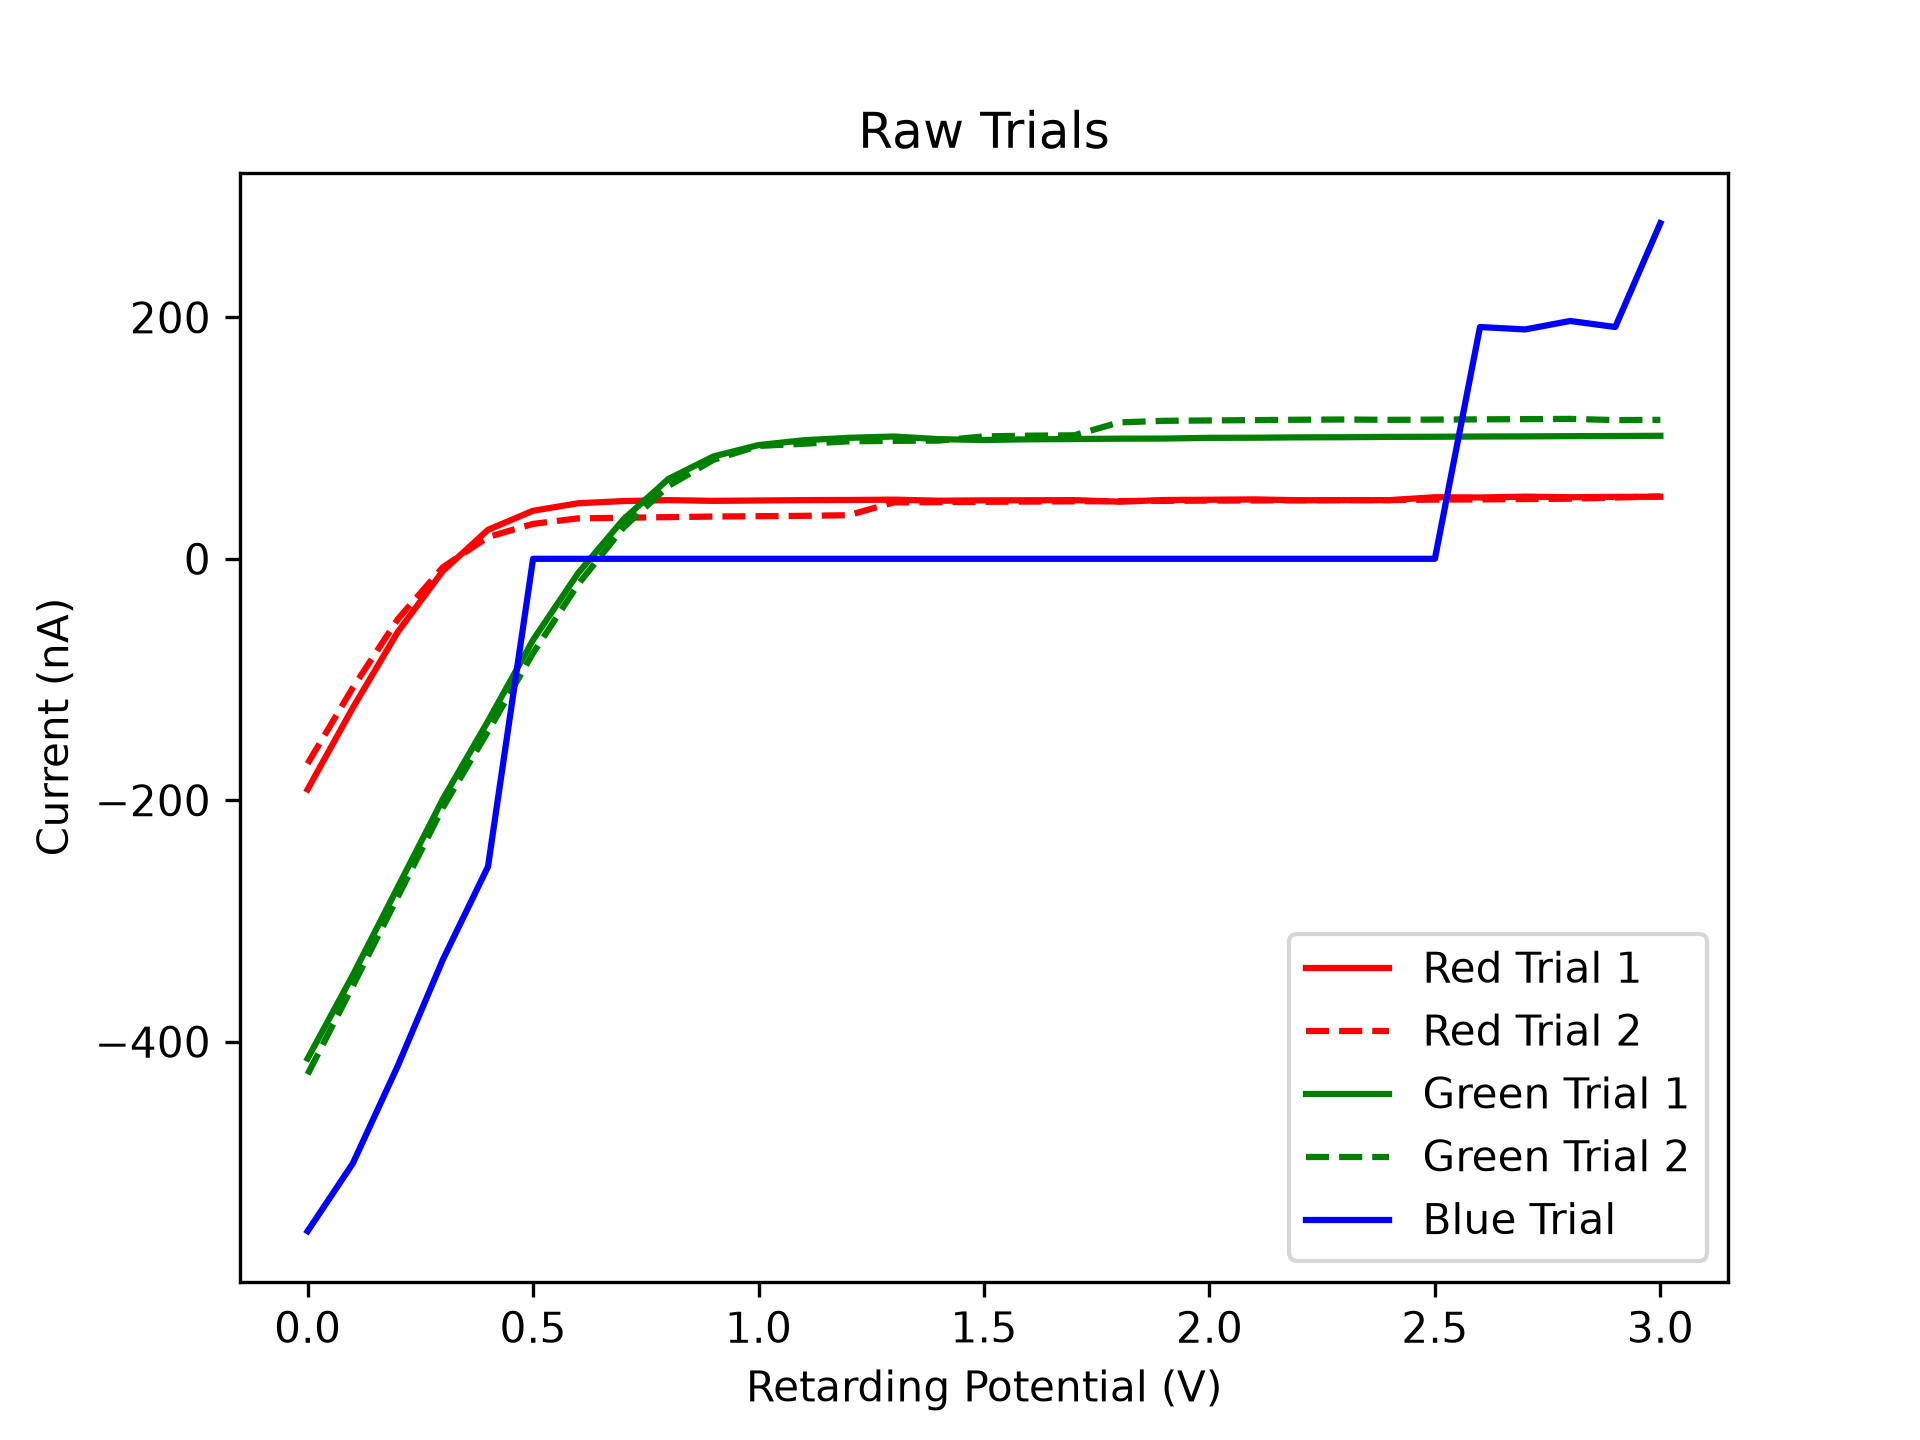
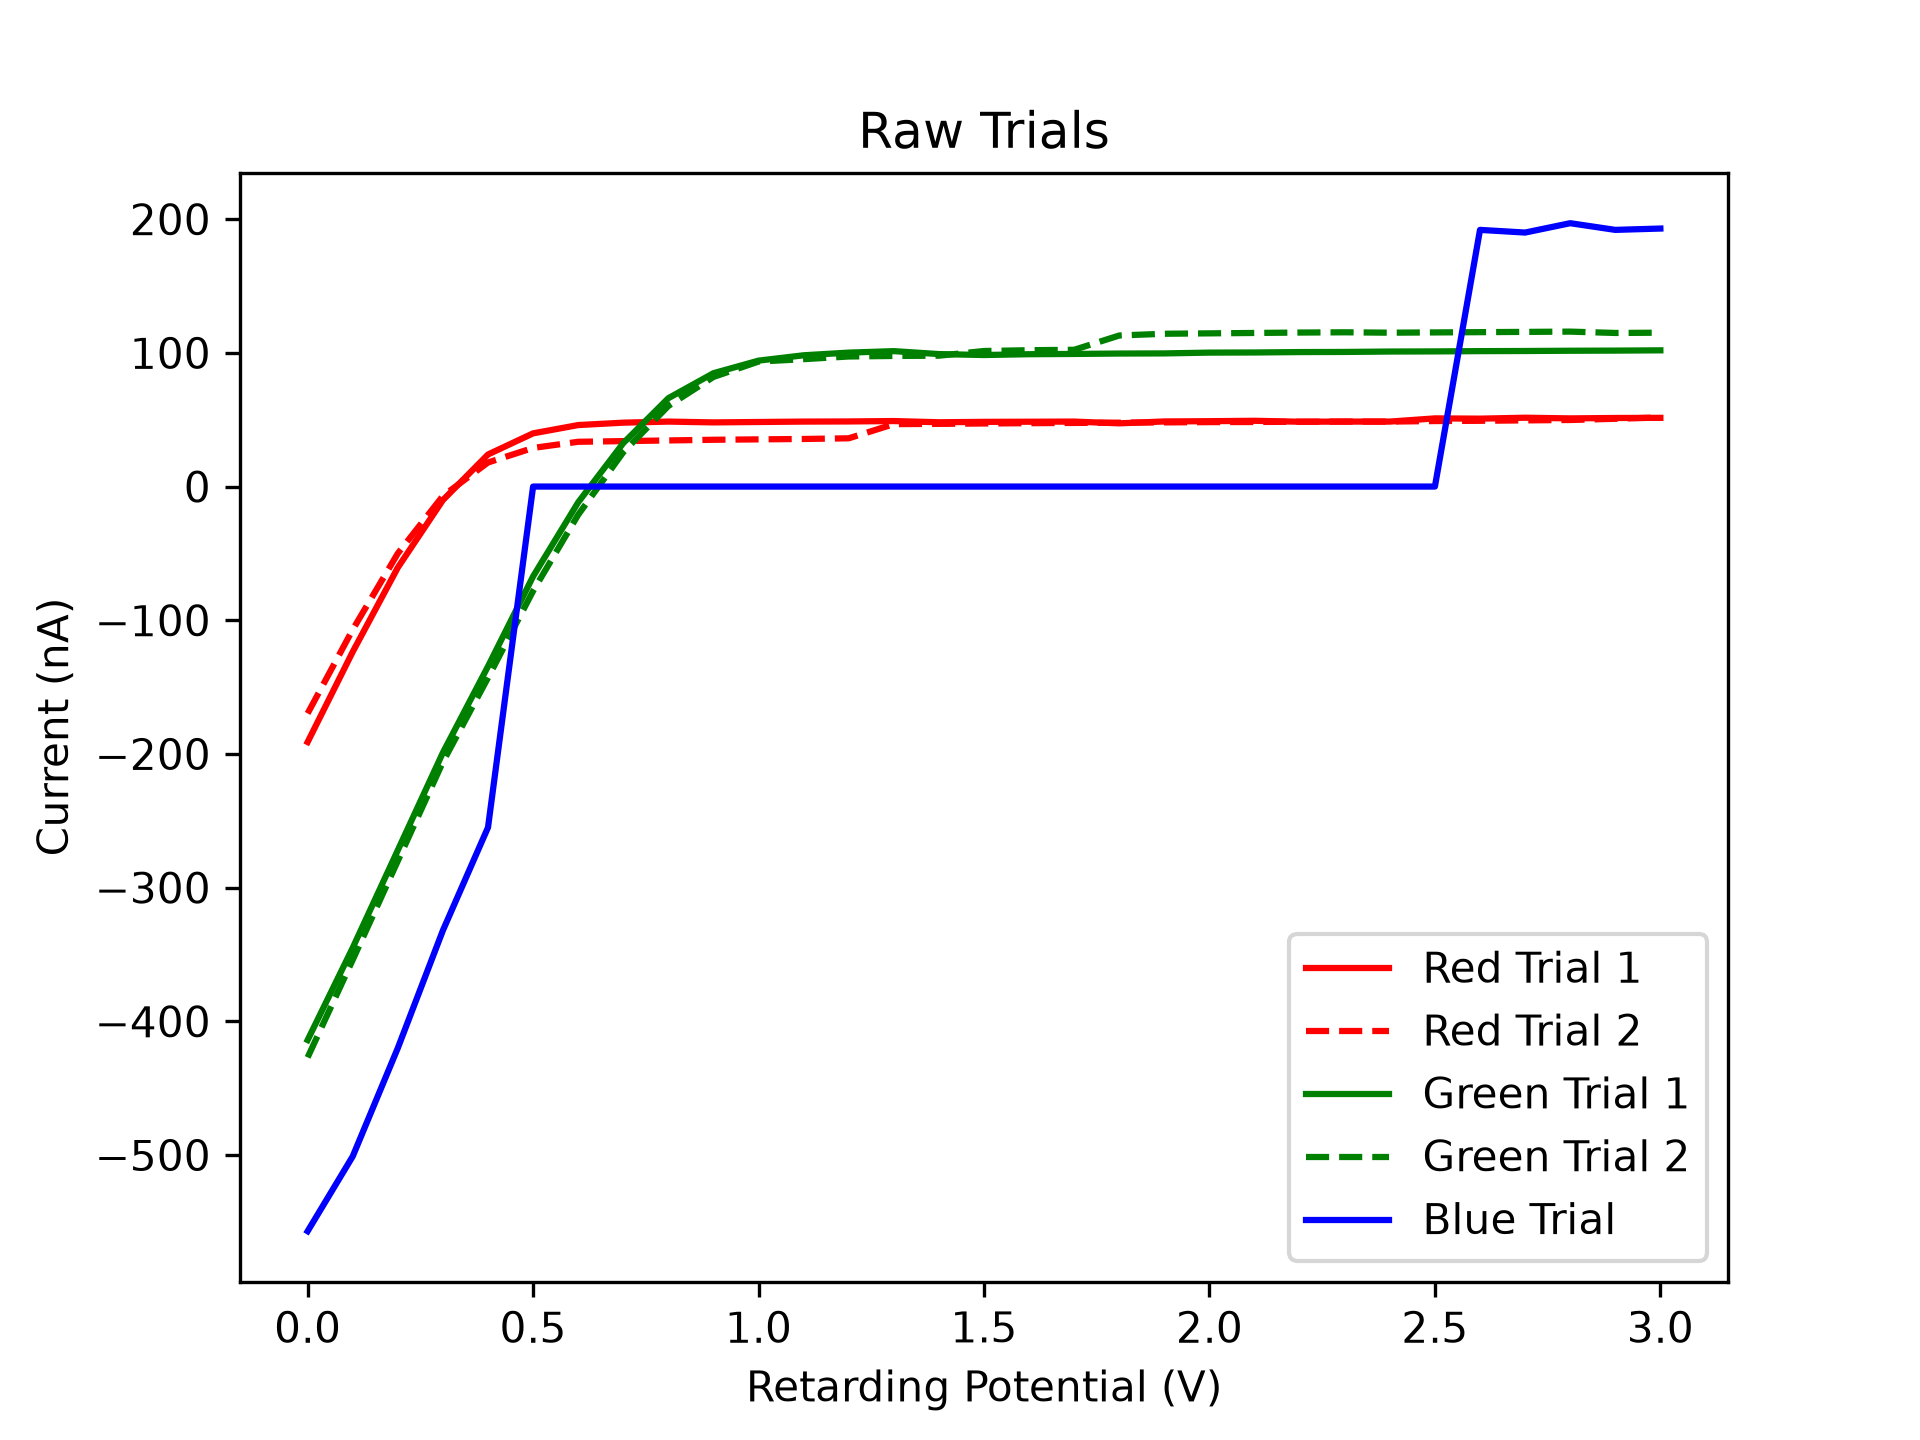
bugfix

diff --git a/rawdata.py b/rawdata.py
@@ -1,7 +1,7 @@
 import numpy as np
 from matplotlib import pyplot as plt
 
-data = np.loadtxt("dataset_orig.csv",delimiter=",",skiprows=2,dtype=float)
+data = np.loadtxt("dataset_mod.csv",delimiter=",",skiprows=2,dtype=float)
 n = len(data[:,0])
 
 
